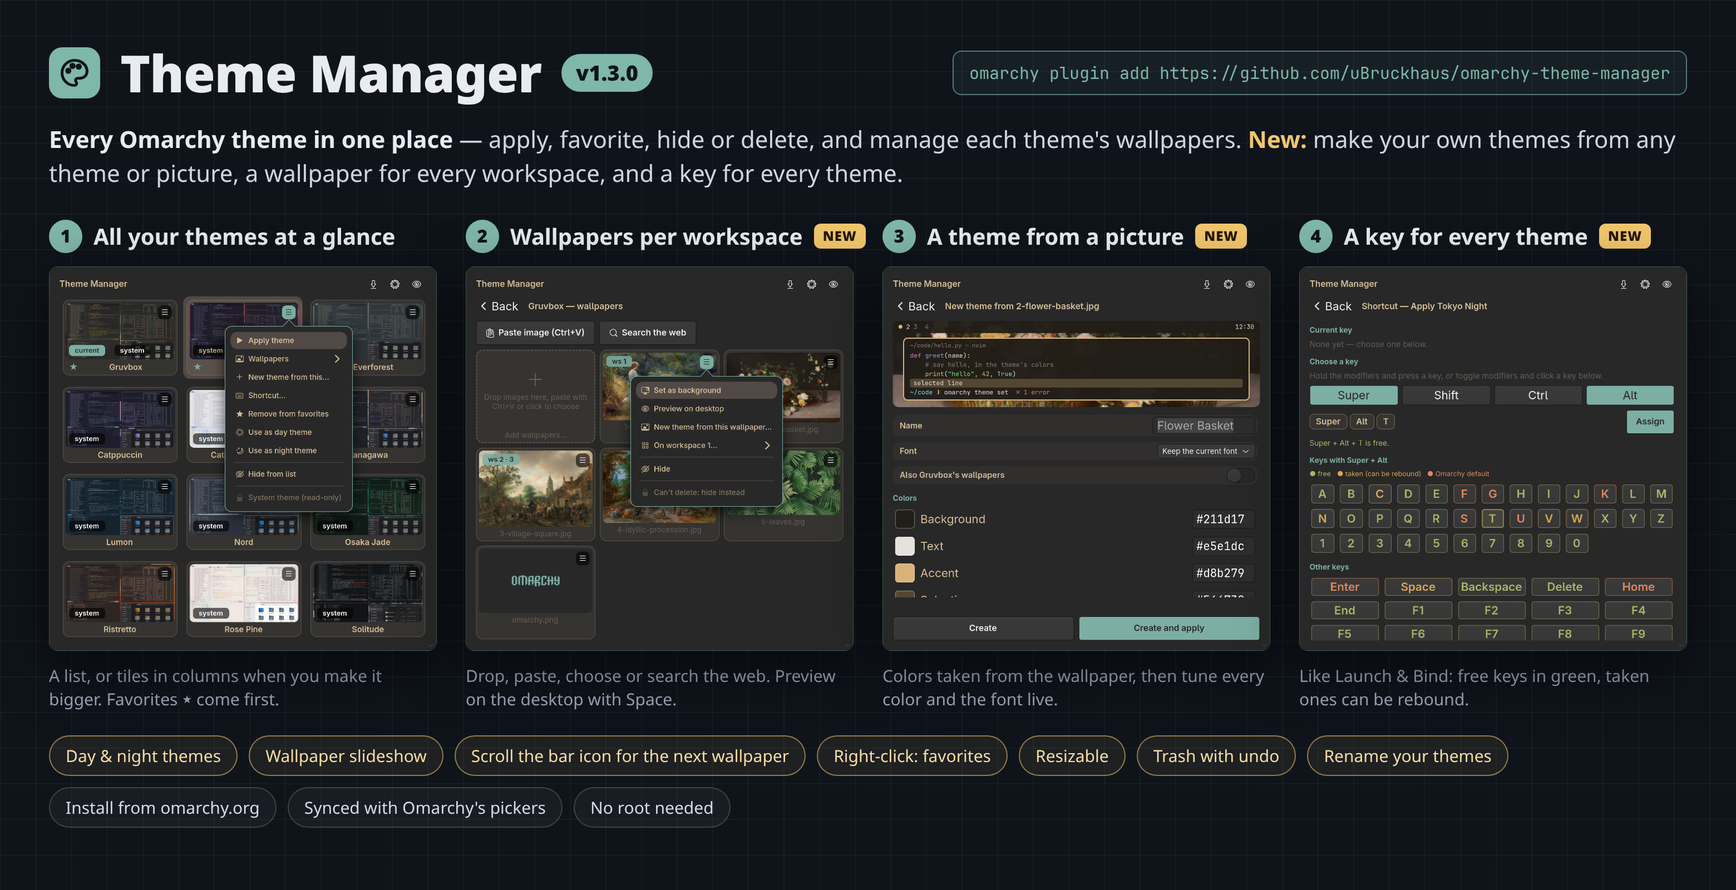
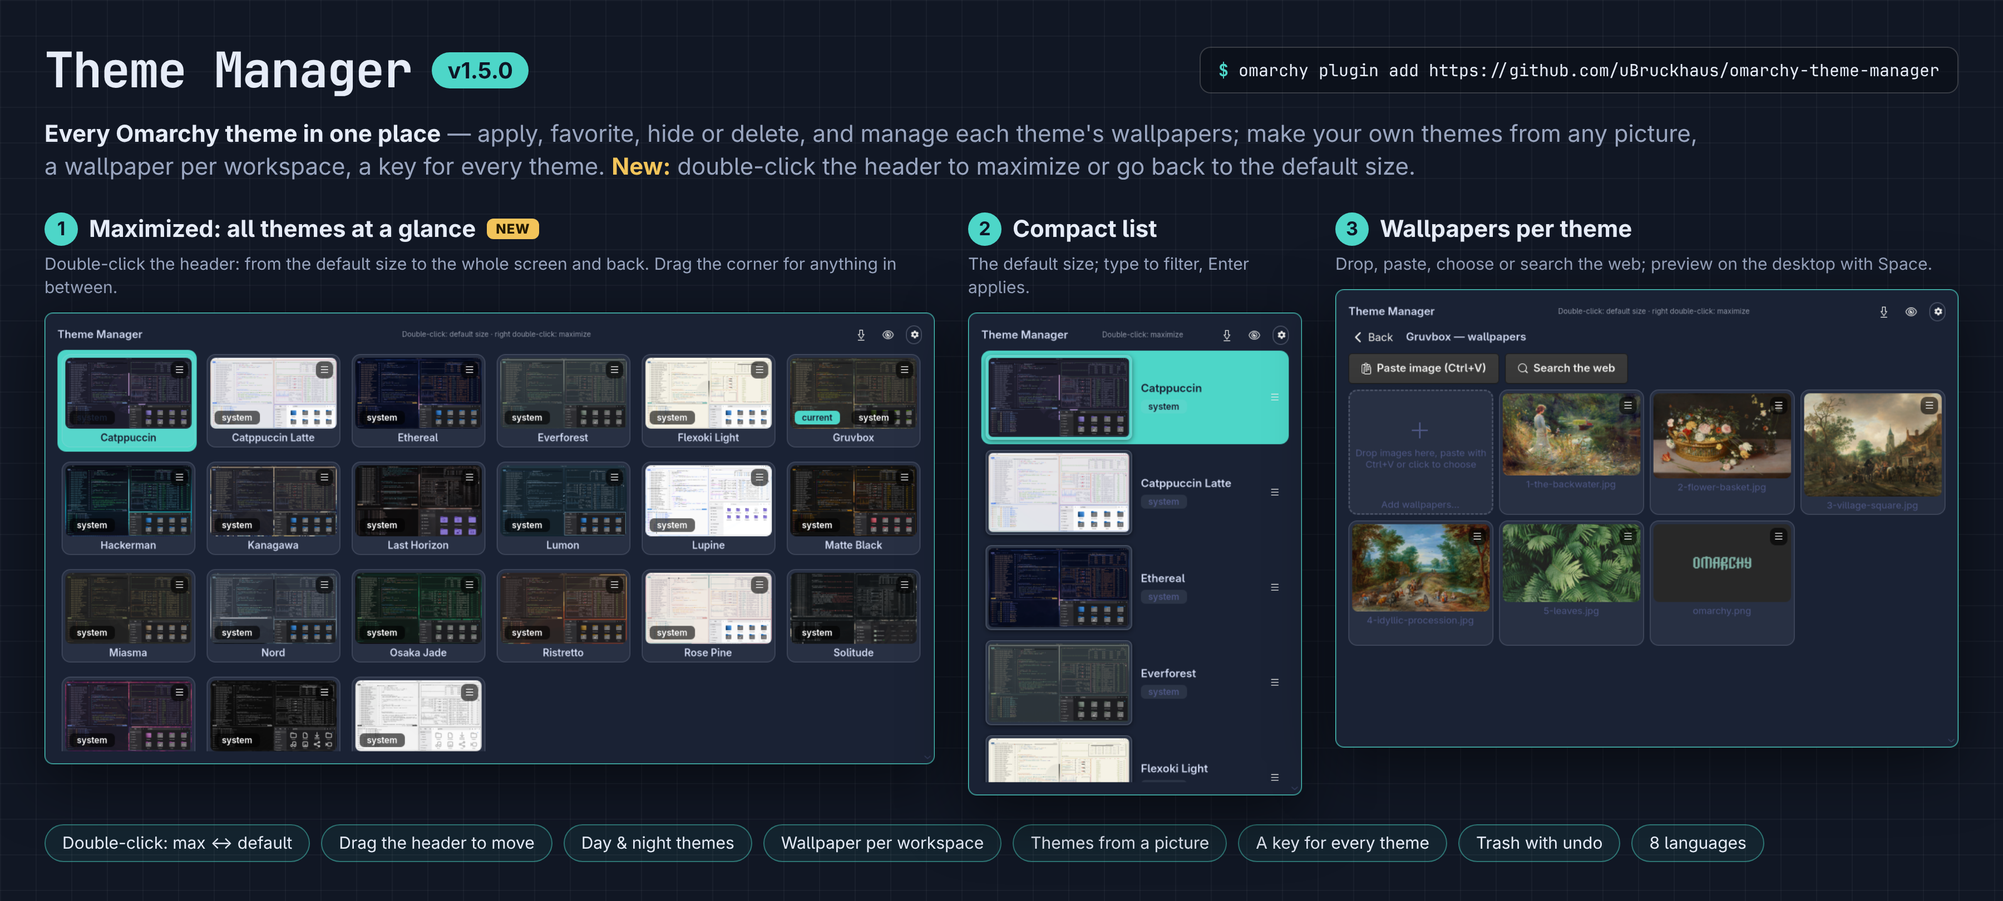
Theme Manager 1.5.0: bounded paste in the color picker, double-click by size
- The hex field and number fields GTK builds into its color chooser now go
  through the same bounded paste as every other field (wl-paste, 4 KiB,
  2 s), take no text drops and no middle-click paste
  (guard_text_fields_in); regression test in test_view_layer.
- Header double-click by size: default -> maximize, maximized -> default,
  in between left = default, right = maximize; a centred hint says which.
- New preview and README.

diff --git a/theme_popup.py b/theme_popup.py
@@ -300,8 +300,9 @@ class ThemeManager(Gtk.Application):
     def guard_text_field(self, entry):
         """Route every way text can enter a search field from another client
         through bounded reads. GTK's own paste, middle-click paste and text
-        drops buffer the whole offer in memory with no limit or deadline."""
-        text = entry.get_delegate()
+        drops buffer the whole offer in memory with no limit or deadline.
+        `entry` is a Gtk.Entry/SearchEntry/SpinButton or a bare Gtk.Text."""
+        text = entry.get_delegate() or entry
         text.set_max_length(theme_core.MAX_FIELD_CHARS)
         # Ctrl+V, Shift+Insert and the context menu's Paste all emit this.
         text.connect("paste-clipboard", self.on_field_paste, entry)
@@ -318,6 +319,23 @@ class ThemeManager(Gtk.Application):
             controller = controllers.get_item(i)
             if isinstance(controller, (Gtk.DropTarget, Gtk.DropTargetAsync)):
                 text.remove_controller(controller)
+
+    def guard_text_fields_in(self, root):
+        """guard_text_field for every text field inside a widget GTK builds
+        itself (the color chooser's hex field and its H/S/V spin buttons)."""
+        guarded = 0
+        stack = [root]
+        while stack:
+            widget = stack.pop()
+            if isinstance(widget, Gtk.Text):
+                self.guard_text_field(widget)
+                guarded += 1
+                continue
+            child = widget.get_first_child()
+            while child is not None:
+                stack.append(child)
+                child = child.get_next_sibling()
+        return guarded
 
     def on_field_paste(self, text, entry):
         text.stop_emission_by_name("paste-clipboard")
@@ -400,17 +418,33 @@ class ThemeManager(Gtk.Application):
         header = Gtk.Box(spacing=8)
         title = Gtk.Label(label="Theme Manager")
         title.set_ellipsize(Pango.EllipsizeMode.END)
-        title.set_max_width_chars(1)
+        title.set_max_width_chars(30)   # a long filter query must not widen the card
         self.title_label = title
         title.add_css_class("tm-title")
-        title.set_hexpand(True)
-        title.set_xalign(0)   # fill the header (START would shrink it to its 1-char natural width)
+        title.set_xalign(0)
         header.append(title)
+        # Small, centred between the title and the header buttons: what a
+        # double-click on the header does at this size. No natural width of
+        # its own (the full text would widen the card): it takes the room
+        # left and ends in "…".
+        mouse_hint = Gtk.Label(xalign=0.5)
+        mouse_hint.add_css_class("tm-header-hint")
+        mouse_hint.set_ellipsize(Pango.EllipsizeMode.END)
+        mouse_hint.set_max_width_chars(1)
+        mouse_hint.set_hexpand(True)
+        mouse_hint.set_margin_start(6)
+        mouse_hint.set_margin_end(6)
+        header.append(mouse_hint)
+        self.mouse_hint = mouse_hint
         # Dragging the title bar moves the popup (a layer surface: placed by
-        # margins; Hyprland keeps Super + drag for itself). Double-click the
-        # title to center it again.
+        # margins; Hyprland keeps Super + drag for itself). Double-click:
+        # see on_header_double_click.
         header.set_cursor_from_name("grab")
-        title.set_tooltip_text(_("Drag to move · double-click: default size, centered"))
+        title.set_tooltip_text(_("Drag to move"))
+        right_clicks = Gtk.GestureClick(button=Gdk.BUTTON_SECONDARY)
+        right_clicks.connect("pressed", lambda _g, count, _x, _y: count == 2
+                             and self.on_header_double_click(Gdk.BUTTON_SECONDARY))
+        header.add_controller(right_clicks)
         mover = Gtk.GestureDrag()
         mover.connect("drag-begin", self.on_move_begin)
         mover.connect("drag-update", self.on_move_update)
@@ -778,6 +812,7 @@ class ThemeManager(Gtk.Application):
         if self.window is not None:
             # A layer surface does not shrink by itself once content gets smaller.
             self.window.set_default_size(1, 1)
+        self.update_mouse_hint()
         if save:
             default = (self.card_w, self.list_h) == (CARD_WIDTH, LIST_HEIGHT)
             try:
@@ -1685,6 +1720,9 @@ class ThemeManager(Gtk.Application):
             with warnings.catch_warnings():
                 warnings.simplefilter("ignore")
                 chooser = Gtk.ColorChooserWidget(use_alpha=False)
+            # Its custom-color editor has its own hex field (and spin
+            # buttons): paste and drops there go through the bounded reads too.
+            self.guard_text_fields_in(chooser)
             color = Gdk.RGBA()
             color.parse(self.ed["palette"].get(key))
             chooser.set_rgba(color)
@@ -2074,6 +2112,7 @@ class ThemeManager(Gtk.Application):
         .tm-menu-item.destructive:focus {{ background: {red_hex}; }}
         .tm-menu-item.destructive:focus label, .tm-menu-item.destructive:focus image {{ color: #ffffff; }}
         .tm-menu-item:disabled {{ opacity: 0.5; }}
+        .tm-header-hint {{ font-size: 10px; color: {dim_hex}; }}
         .tm-grip {{ color: {muted_hex}; margin: 3px; opacity: 0.7; }}
         .tm-grip:hover {{ color: {accent_hex}; opacity: 1; }}
         .tm-undo {{ background: {sel_hex}; color: {sel_fg}; border: 1px solid {accent_hex};
@@ -4034,16 +4073,48 @@ class ThemeManager(Gtk.Application):
         if now - getattr(self, "last_header_press", 0.0) < 0.4:
             self.last_header_press = 0.0
             self.moving = False
-            self.reset_window()
+            self.on_header_double_click(Gdk.BUTTON_PRIMARY)
             return
         self.last_header_press = now
         self.moving = True
         self.move_start = (self.current_position(), theme_core.cursor_position())
 
     def reset_window(self):
-        """Default size, centered (double-click on the title bar)."""
+        """Default size, centered."""
         self.resize_to(CARD_WIDTH, LIST_HEIGHT, save=True)
         self.move_to(None, save=True)
+
+    def maximize_window(self):
+        """As large as the monitor allows, centered."""
+        self.resize_to(*self.size_limits(), save=True)
+        self.move_to(None, save=True)
+
+    def size_state(self) -> str:
+        """"default", "max" or "between"."""
+        if (self.card_w, self.list_h) == (CARD_WIDTH, LIST_HEIGHT):
+            return "default"
+        max_w, max_h = self.size_limits()
+        if (self.card_w, self.list_h) == (max(CARD_WIDTH, max_w), max(theme_core.MIN_WINDOW_SIZE[1], max_h)):
+            return "max"
+        return "between"
+
+    def on_header_double_click(self, button):
+        """At the default size either button maximizes, at the largest either
+        one goes back; in between left = default size, right = maximize."""
+        size = self.size_state()
+        if size == "max" or (size == "between" and button == Gdk.BUTTON_PRIMARY):
+            self.reset_window()
+        else:
+            self.maximize_window()
+
+    def update_mouse_hint(self):
+        if getattr(self, "mouse_hint", None) is None or self.window is None:
+            return
+        size = self.size_state()
+        self.mouse_hint.set_label(_("Double-click: maximize") if size == "default" else
+                                  _("Double-click: default size") if size == "max" else
+                                  _("Double-click: default size · right double-click: maximize"))
+        self.mouse_hint.set_tooltip_text(self.mouse_hint.get_label())
 
     def on_move_update(self, gesture, dx, dy):
         if not self.moving:

diff --git a/i18n.py b/i18n.py
@@ -204,7 +204,10 @@ STRINGS = {
   "Delete wallpaper": "Hintergrund löschen",
   "Delete wallpaper “{0}” from “{1}”?": "Hintergrund „{0}“ aus „{1}“ löschen?",
   "Delete…": "Löschen…",
-  "Drag to move · double-click: default size, centered": "Ziehen zum Verschieben · Doppelklick: Standardgröße, zentriert",
+  "Double-click: default size": "Doppelklick: Standardgröße",
+  "Double-click: default size · right double-click: maximize": "Doppelklick: Standardgröße · Rechts-Doppelklick: maximieren",
+  "Double-click: maximize": "Doppelklick: maximieren",
+  "Drag to move": "Ziehen zum Verschieben",
   "Drag to resize · double-click for the default size": "Ziehen zum Ändern der Größe · Doppelklick für die Standardgröße",
   "Drop images here, paste with Ctrl+V or click to choose": "Bilder hier ablegen, mit Strg+V einfügen oder klicken zum Auswählen",
   "Drop local image files (JPG, PNG, WebP, GIF, BMP, HEIC).": "Lokale Bilddateien ablegen (JPG, PNG, WebP, GIF, BMP, HEIC).",
@@ -579,7 +582,10 @@ STRINGS = {
   "Delete wallpaper": "Eliminar fondo",
   "Delete wallpaper “{0}” from “{1}”?": "¿Eliminar el fondo «{0}» de «{1}»?",
   "Delete…": "Eliminar…",
-  "Drag to move · double-click: default size, centered": "Arrastra para mover · doble clic: tamaño predeterminado, centrado",
+  "Double-click: default size": "Doble clic: tamaño predeterminado",
+  "Double-click: default size · right double-click: maximize": "Doble clic: tamaño predeterminado · doble clic derecho: maximizar",
+  "Double-click: maximize": "Doble clic: maximizar",
+  "Drag to move": "Arrastra para mover",
   "Drag to resize · double-click for the default size": "Arrastra para cambiar el tamaño · doble clic para el tamaño predeterminado",
   "Drop images here, paste with Ctrl+V or click to choose": "Suelta imágenes aquí, pega con Ctrl+V o haz clic para elegir",
   "Drop local image files (JPG, PNG, WebP, GIF, BMP, HEIC).": "Suelta archivos de imagen locales (JPG, PNG, WebP, GIF, BMP, HEIC).",
@@ -954,7 +960,10 @@ STRINGS = {
   "Delete wallpaper": "Supprimer le fond d'écran",
   "Delete wallpaper “{0}” from “{1}”?": "Supprimer le fond d'écran « {0} » de « {1} » ?",
   "Delete…": "Supprimer…",
-  "Drag to move · double-click: default size, centered": "Glisser pour déplacer · double-clic : taille par défaut, centré",
+  "Double-click: default size": "Double-clic : taille par défaut",
+  "Double-click: default size · right double-click: maximize": "Double-clic : taille par défaut · double-clic droit : agrandir",
+  "Double-click: maximize": "Double-clic : agrandir",
+  "Drag to move": "Glisser pour déplacer",
   "Drag to resize · double-click for the default size": "Glisser pour redimensionner · double-clic pour la taille par défaut",
   "Drop images here, paste with Ctrl+V or click to choose": "Déposez des images ici, collez avec Ctrl+V ou cliquez pour choisir",
   "Drop local image files (JPG, PNG, WebP, GIF, BMP, HEIC).": "Déposez des fichiers image locaux (JPG, PNG, WebP, GIF, BMP, HEIC).",
@@ -1329,7 +1338,10 @@ STRINGS = {
   "Delete wallpaper": "Elimina sfondo",
   "Delete wallpaper “{0}” from “{1}”?": "Eliminare lo sfondo «{0}» da «{1}»?",
   "Delete…": "Elimina…",
-  "Drag to move · double-click: default size, centered": "Trascina per spostare · doppio clic: dimensione predefinita, centrato",
+  "Double-click: default size": "Doppio clic: dimensione predefinita",
+  "Double-click: default size · right double-click: maximize": "Doppio clic: dimensione predefinita · doppio clic destro: massimizza",
+  "Double-click: maximize": "Doppio clic: massimizza",
+  "Drag to move": "Trascina per spostare",
   "Drag to resize · double-click for the default size": "Trascina per ridimensionare · doppio clic per la dimensione predefinita",
   "Drop images here, paste with Ctrl+V or click to choose": "Rilascia immagini qui, incolla con Ctrl+V o fai clic per scegliere",
   "Drop local image files (JPG, PNG, WebP, GIF, BMP, HEIC).": "Rilascia file immagine locali (JPG, PNG, WebP, GIF, BMP, HEIC).",
@@ -1704,7 +1716,10 @@ STRINGS = {
   "Delete wallpaper": "Achtergrond verwijderen",
   "Delete wallpaper “{0}” from “{1}”?": "Achtergrond „{0}” uit „{1}” verwijderen?",
   "Delete…": "Verwijderen…",
-  "Drag to move · double-click: default size, centered": "Sleep om te verplaatsen · dubbelklik: standaardgrootte, gecentreerd",
+  "Double-click: default size": "Dubbelklik: standaardgrootte",
+  "Double-click: default size · right double-click: maximize": "Dubbelklik: standaardgrootte · rechts dubbelklikken: maximaliseren",
+  "Double-click: maximize": "Dubbelklik: maximaliseren",
+  "Drag to move": "Sleep om te verplaatsen",
   "Drag to resize · double-click for the default size": "Sleep om het formaat te wijzigen · dubbelklik voor de standaardgrootte",
   "Drop images here, paste with Ctrl+V or click to choose": "Sleep afbeeldingen hierheen, plak met Ctrl+V of klik om te kiezen",
   "Drop local image files (JPG, PNG, WebP, GIF, BMP, HEIC).": "Sleep lokale afbeeldingsbestanden hierheen (JPG, PNG, WebP, GIF, BMP, HEIC).",
@@ -2081,7 +2096,10 @@ STRINGS = {
   "Delete wallpaper": "Usuń tapetę",
   "Delete wallpaper “{0}” from “{1}”?": "Usunąć tapetę „{0}” z „{1}”?",
   "Delete…": "Usuń…",
-  "Drag to move · double-click: default size, centered": "Przeciągnij, aby przenieść · dwuklik: rozmiar domyślny, wyśrodkowane",
+  "Double-click: default size": "Dwuklik: domyślny rozmiar",
+  "Double-click: default size · right double-click: maximize": "Dwuklik: domyślny rozmiar · dwuklik prawym: maksymalizuj",
+  "Double-click: maximize": "Dwuklik: maksymalizuj",
+  "Drag to move": "Przeciągnij, aby przesunąć",
   "Drag to resize · double-click for the default size": "Przeciągnij, aby zmienić rozmiar · dwuklik: rozmiar domyślny",
   "Drop images here, paste with Ctrl+V or click to choose": "Upuść tu obrazy, wklej przez Ctrl+V lub kliknij, aby wybrać",
   "Drop local image files (JPG, PNG, WebP, GIF, BMP, HEIC).": "Upuść lokalne pliki obrazów (JPG, PNG, WebP, GIF, BMP, HEIC).",
@@ -2456,7 +2474,10 @@ STRINGS = {
   "Delete wallpaper": "Excluir papel de parede",
   "Delete wallpaper “{0}” from “{1}”?": "Excluir o papel de parede “{0}” de “{1}”?",
   "Delete…": "Excluir…",
-  "Drag to move · double-click: default size, centered": "Arraste para mover · clique duplo: tamanho padrão, centralizado",
+  "Double-click: default size": "Duplo clique: tamanho padrão",
+  "Double-click: default size · right double-click: maximize": "Duplo clique: tamanho padrão · duplo clique direito: maximizar",
+  "Double-click: maximize": "Duplo clique: maximizar",
+  "Drag to move": "Arraste para mover",
   "Drag to resize · double-click for the default size": "Arraste para redimensionar · clique duplo para o tamanho padrão",
   "Drop images here, paste with Ctrl+V or click to choose": "Solte imagens aqui, cole com Ctrl+V ou clique para escolher",
   "Drop local image files (JPG, PNG, WebP, GIF, BMP, HEIC).": "Solte arquivos de imagem locais (JPG, PNG, WebP, GIF, BMP, HEIC).",

diff --git a/tests/test_view_layer.py b/tests/test_view_layer.py
@@ -580,6 +580,39 @@ class ViewLayerTest(unittest.TestCase):
         settings = theme_popup.Gtk.Settings.get_default()
         self.assertFalse(settings.get_property("gtk-enable-primary-paste"))
 
+    def test_color_chooser_fields_never_use_gtks_unbounded_paste(self):
+        """The hex field and spin buttons GTK puts inside its color chooser
+        get the same bounded paste and no drop target of their own."""
+        Gtk = theme_popup.Gtk
+        chooser = Gtk.ColorChooserWidget(use_alpha=False)
+        texts = []
+        stack = [chooser]
+        while stack:
+            widget = stack.pop()
+            if isinstance(widget, Gtk.Text):
+                texts.append(widget)
+            child = widget.get_first_child()
+            while child is not None:
+                stack.append(child)
+                child = child.get_next_sibling()
+        self.assertTrue(texts, "GTK's color editor should contain a hex field")
+        self.assertEqual(self.app.guard_text_fields_in(chooser), len(texts))
+        orig = theme_core.clipboard_text
+        reads = []
+        theme_core.clipboard_text = lambda **kw: reads.append(1) or "#3a6ea5"
+        try:
+            for text in texts:
+                self.assertEqual(text.get_max_length(), theme_core.MAX_FIELD_CHARS)
+                controllers = text.observe_controllers()
+                kinds = {type(controllers.get_item(i)).__name__ for i in range(controllers.get_n_items())}
+                self.assertFalse(kinds & {"DropTarget", "DropTargetAsync"})
+                text.set_text("")
+                text.emit("paste-clipboard")
+                self.assertTrue(self.pump_until(lambda: text.get_text() == "#3a6ea5"))
+        finally:
+            theme_core.clipboard_text = orig
+        self.assertEqual(len(reads), len(texts))
+
     def test_oversized_clipboard_text_is_refused(self):
         orig = theme_core.clipboard_text
         theme_core.clipboard_text = lambda **kw: None

diff --git a/README.md b/README.md
@@ -22,7 +22,7 @@ Every Omarchy theme, user and system, in one popup: apply, favorite, hide or del
 - **Wallpaper slideshow.** Settings (⚙) → **Change the wallpaper** every 5 minutes to 2 hours, through the current theme's visible wallpapers. Workspaces with their own wallpaper keep it.
 - **Day and night themes.** Pick a day and a night theme (in Settings, or **Use as day/night theme** in a theme's menu) and the times they start. Theme Manager switches at those times; a theme you pick by hand in between stays until the next switch.
 - **From the bar.** Scroll on the paint-brush icon for the next or previous wallpaper; right-click it for your favorite themes (or the recently used ones), the next wallpaper, and Theme Manager itself.
-- **Resizable.** Drag the grip in the bottom-right corner. At the default width themes are a list; wider, they become tiles in columns, like the wallpaper, web search and import pages; double-click the grip for the default size. The size is remembered.
+- **Resizable and movable.** Drag the grip in the bottom-right corner to resize, the title bar to move. At the default width themes are a list; wider, they become tiles in columns, like the wallpaper, web search and import pages. **Double-click the title bar**: at the default size either mouse button maximizes, maximized either one goes back to the default size; in between, left goes back to the default size and right maximizes (both centred). A small hint in the header says what a double-click does right now. Double-clicking the grip also restores the default size. Size and position are remembered.
 - **Hidden wallpapers** (with the Omarchy sync on) leave Omarchy's background picker, *next background* and the background chosen on theme switch. The files stay where they are, so hiding works for every wallpaper. If the hidden one is on the desktop, the next visible one takes its place. The last visible wallpaper of a theme cannot be hidden.
 - **Search wallpapers on the web.** On a theme's wallpaper page, **Search the web** (Ctrl+F) searches [wallhaven.cc](https://wallhaven.cc) for whatever you type: safe-for-work landscape images of at least 1920×1080, with more results as you scroll. A result's ☰ menu adds it to the theme, adds it and sets it as the background (current theme), or opens its page in your default browser.
 - **Import themes from [omarchy.org](https://omarchy.org/themes/)** (download button in the header, or Ctrl+I): the whole gallery with previews and search. A theme's ☰ menu installs it, installs and applies it, or opens its GitHub page in your default browser (a hint appears if none is set).
@@ -122,7 +122,7 @@ rm -rf ~/.config/omarchy/theme-manager ~/.cache/theme-manager
 - Clipboard paste uses `wl-paste`: image data (type checked by its magic bytes), or local file paths a file manager copied (image files only, at most 10, 50 MiB each). Drops accept the same, plus the image bytes a browser offers for a dragged picture (read with a 50 MiB cap and a 30 s deadline; the type comes from the bytes, never from the offered name). Nothing dropped or pasted is downloaded, executed or opened.
 - Images are never decoded on trust: before any wallpaper, preview or thumbnail is shown or imported, its header is read (without decoding pixels) and anything over 16384 px per side or 64 megapixels in total (width × height × frames, for animated GIF/WebP) is refused, so a small, highly compressed file cannot declare a canvas that exhausts memory. Decoding runs on worker threads at thumbnail size, never on the UI thread.
 - PNG metadata is bounded too: a PNG with more than 32 text chunks or more than 32 KiB of compressed metadata (zTXt, compressed iTXt, iCCP) is refused everywhere it would be shown or handed to the desktop, because the shell's image reader inflates all text chunks before the pixels. Imported PNGs are stored with only pixel, palette and colour chunks; text, EXIF and unknown chunks are dropped (pixels are copied byte for byte, not re-encoded).
-- Text pasted into the two search fields is read with `wl-paste` (at most 4 KiB, 2 s deadline, control characters flattened, 200 characters kept) instead of GTK's built-in paste, which would buffer whatever another app offers with no limit. Middle-click (primary selection) paste is turned off in the popup, and the search fields take no text drops.
+- Text pasted into the two search fields, the theme name, the color fields, and the hex field and number fields inside GTK's color picker is read with `wl-paste` (at most 4 KiB, 2 s deadline, control characters flattened, 200 characters kept) instead of GTK's built-in paste, which would buffer whatever another app offers with no limit. Middle-click (primary selection) paste is turned off in the popup, and none of these fields takes text drops.
 - Remembers the popup position and size, and the settings, in `~/.config/omarchy/theme-manager/settings.json`; favorites, recently used themes and workspace wallpapers in `favorites.json`, `recent.json` and `workspace-wallpapers.json` next to it. Workspace wallpapers are stored by file name and only ever resolve to a visible wallpaper the theme already lists. Short-lived automation state (the background to return to, the last slideshow step) lives in `~/.cache/theme-manager/auto-state.json`.
 - Custom themes are written as a new folder in `~/.config/omarchy/themes/` (never into an existing one): `colors.toml` with only `#rrggbb` colors (and the base theme's other color values, kept as they were), `icons.theme` (one icon theme name, checked), copies of the visible wallpapers (bounded copies, oversized images skipped), a `preview.png` drawn with GdkPixbuf, and `theme-manager.json` (base theme, font). Nothing that runs code is copied: no `.lua`, no terminal or editor configs. Only themes with that note, and not from git, can be edited again. Fonts are listed with `omarchy-font-list`, read with `omarchy-font-current` and set with `omarchy-font-set`, and only a font from that list is ever passed on (it edits config files with sed). The font you had before is remembered as `own_font` in `settings.json`.
 - Deleting moves the theme or wallpaper into the freedesktop trash, `~/.local/share/Trash/` (`files/` and a `.trashinfo` in `info/`, created exclusively, mode 0600); Undo moves it back only if nothing has taken its place. Symlinks are just unlinked. If the trash is on another filesystem, the item is deleted as before.
